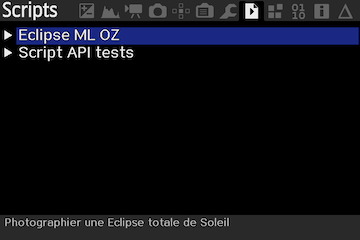
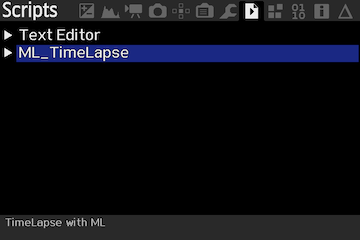
Amélioration de l'arrondi de la valeur du shutter speed Mise à jour du Manuel d'utilisation.md

Changed region(s): [[0.0306, 0.0875, 1.0, 0.2625], [0.0, 0.9042, 0.6417, 0.9625]]

diff --git a/Manuel d'utilisation.md b/Manuel d'utilisation.md
@@ -2,7 +2,7 @@
 ## TimeLapse avec Magic Lantern  
 
 Exécution d'un cycle de photos pour réaliser un time lapse avec la gestion du passage du jour à la nuit.  
-Qualifié avec un Canon 6D.  
+Qualifié avec un Canon 6D et 60D.  
 
 ## Principe de fonctionnement
 Le programme ML_TimeLapse.lua va réaliser une série de photos avec un cycle précis.  
@@ -15,14 +15,12 @@ Attention ! Il faut activer le module lua  "Lua scripting" dans le menu Modules 
 ![Menu Modules](./images/Modules.png)  
 Copier le script ML_TimeLapse.lua dans le répertoire ML/SCRIPTS de la carte SD.
 
-
-
 ### Attention ! 
 Le temps minimum entre deux images est de 1s.
 
 ## Lancement de la séquence
 * Choisir le menu script.  
-* Déplacer la barre de sélection sur le choix Eclipse ML OZ.  
+* Déplacer la barre de sélection sur le choix ML_TimeLapse.  
 * Lancer la séquence avec la touche SET.
 
 Menu Scripts  
@@ -52,29 +50,36 @@ A chaque lancement de séquence, un fichier log __MLTL.LOG__ est créé à la ra
 Toutes les actions de la séquence sont loggés dans le fichier.
 ```
 ===============================================================================
-ML/SCRIPTS/ML_TIM~1.LUA - 2017-9-30 14:15:00
+ML/SCRIPTS/ML_TIM~1.LUA - 2020-9-13 22:03:44
 ===============================================================================
 
-==> ML_TimeLapse.lua - Version : 1.0.0
-14:15:00 - Log begin.
-14:15:00 - get init parameter iso at 100
-14:15:00 - Apply init parameter iso at 100
-14:15:00 - Table iso updated with 22 arguments
-14:15:00 - ISO Table = 22 values
-14:15:00 - Get ISO = 100
-14:15:00 - Get Time Start at 15:10:00
-14:15:00 - Start at 54600s and 100 ISO
-14:15:00 - Get Start Ramp at 15:30:00
-14:15:00 - Get ISO Ramp end = 6400
-14:15:00 - Get End Ramp at 16:00:00
-14:15:00 - Ramping Start at 55800s and finish at 57600s ISO
-14:15:00 - Get Time End at 17:15:00
-14:15:00 - End at 62100s
-14:15:00 - Get Interval = 12
-14:15:00 - Interval = 12s
-14:15:00 - Star at : 54600s with 100 ISO and Interval = 12s
-14:15:00 - Ramp at : 55800s and finish at : 57600s with 6400 ISO
-14:15:00 - End at : 62100s 
-14:15:00 - Normal exit.
+==> ML_TimeLapse.lua - Version : 1.0.3 
+22:03:44 - Log begin.
+22:03:44 - get init parameter iso at 6400
+22:03:46 - Apply init parameter iso at 6400
+22:03:46 - Table iso updated with 22 arguments
+22:03:46 - ISO Table = 22 values
+22:03:52 - Get Start ISO value : 100 index : 1
+22:04:05 - Get Time to start at 22:05:00
+22:04:06 - Start at 79500s and 100 ISO
+22:04:08 - Get Start Ramp at 22:06:00
+22:04:11 - Get Stop Ramp at 22:07:00
+22:04:17 - Get End ISO value : 6400 index : 19
+22:04:17 - Ramping Start at 79560s and finish at 79620s with 6400 ISO
+22:04:24 - Get Time to stop at 22:08:00
+22:04:24 - End at 79680s
+22:04:30 - Get Interval value : 10 index : 10
+22:04:32 - Get MLU Delay value : 0 index : 1
+22:04:32 - Interval = 10s and MLU Delay = 0ms
+22:04:32 - Start at 79500s and 100 ISO
+22:04:32 - Start with Interval = 10s, MLU = 0ms
+22:04:32 - Ramp at : 79560s and finish at : 79620s with 6400 ISO
+22:04:32 - End at : 79680s 
+22:05:01 - Get Start ? : Yes
+22:05:01 - Start sequence ! 
+22:05:01 - Set mirror lockup OFF.
+22:05:01 - Relativ : Zero : 92 Start : -1 Startramp : 59 Stopramp : 119 Stop : 179
+22:05:01 - Duration = To go : -1 Start : 60 Ramp : 60 Stop : 60
+22:05:01 - NO Shoot! ISO: 100 Aperture: 0 shutter: 1 Test Mode
 
 ```
